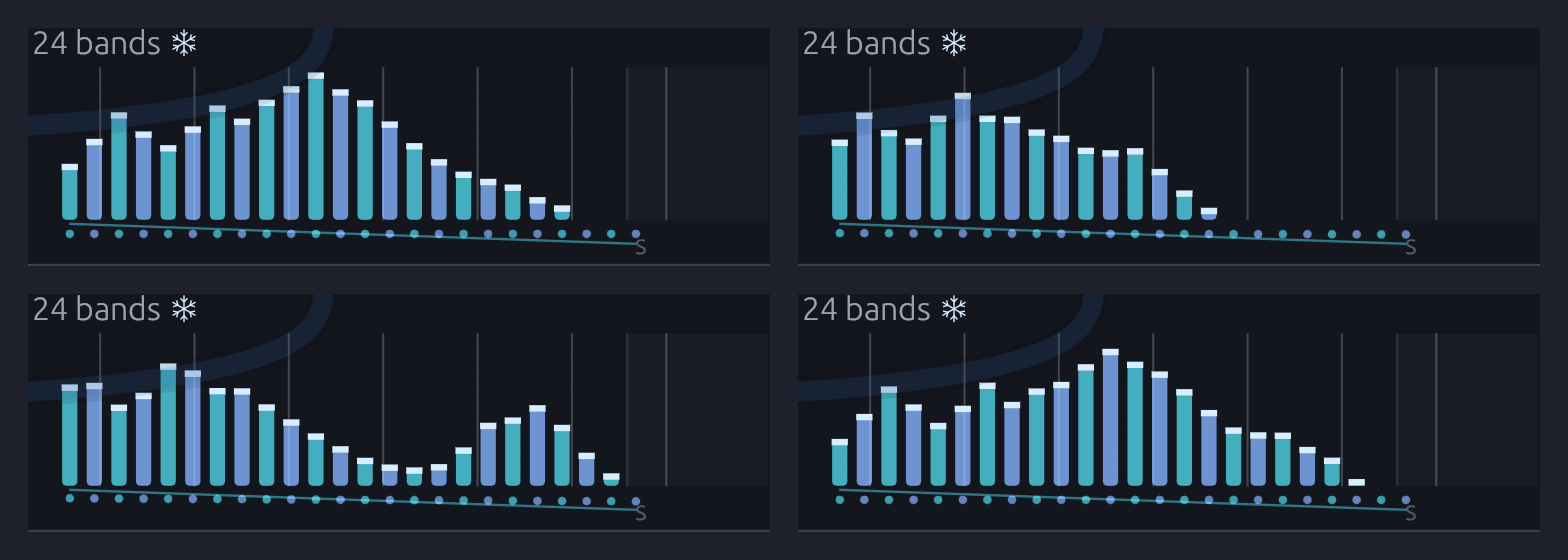
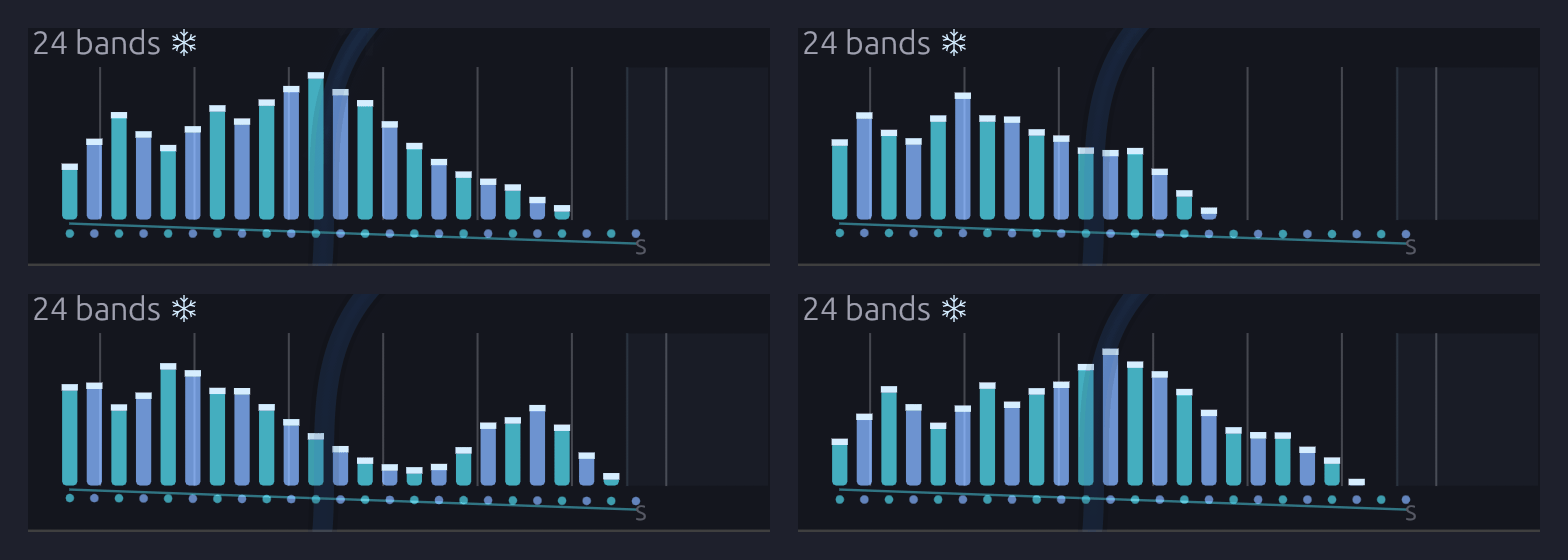
[Docs] recipe_images.py: script the Held Vowels face close-up too
- A CLOSEUPS table (image -> patch, module, moments, crop, zoom, columns):
  the face is aimed at from a probe layout, filmed once per moment so the
  face's clock-driven animations land the same way every time, cropped and
  set on a grid with 28 px gaps on #1e202c, then 256-colour median cut
- The camera maths shared with MOMENTS moves into aim()
- Re-shot recipe-held-vowels-faces.png: it was stale. Since 59bd60c moved
  the patch round the taller Sampler, the cable showing faintly through the
  Vocoder's display runs a different way. A second --check reads ok

Closes #178

diff --git a/tools/showcase/recipe_images.py b/tools/showcase/recipe_images.py
@@ -33,6 +33,11 @@ the scale the picture has always had, and the still is cropped to that
 frame (or the part of it that's wanted) without resizing. Playing three
 minutes of song frame by frame takes a few minutes.
 
+A few more are close-ups of one module's face, listed in CLOSEUPS: the
+example plays up to each moment wanted, with the view aimed at that face,
+the same part of the face is cropped from each still, and the crops are set
+on a grid.
+
 Build into target/capture first, as for shots.py. --check exits 1 if any
 image is stale or missing.
 """
@@ -82,6 +87,20 @@ MOMENTS = {
     "from-one-sine-line": Moment("from-one-sine", 14.5 * UNIT, "Motif, lead and memory", 1.75, (826, 568),
                                  [(407, 424)]),
 }
+
+# Close-ups of one face at several moments: `recipe-<image>.png` shows `crop`
+# (x0, y0, x1, y1 in patch points from the module's top-left) of the first
+# `module` (by id) in patches/<patch>.json, drawn at `zoom` and `PPP`, as it
+# was each of `at` seconds after the patch started playing. The crops are
+# set `columns` across, GAP pixels apart and from the edge, on BACKGROUND
+Closeup = namedtuple("Closeup", "patch module at crop zoom columns")
+CLOSEUPS = {
+    # The Vocoder's bands frozen on each of the four sung vowels: ohh, ooh,
+    # ee and ahh, each held from one downbeat to the next
+    "held-vowels-faces": Closeup("held-vowels", "fx.vocoder", (5.6, 9.3, 13.0, 16.6), (18, 202, 203.5, 261.5), 2.0, 2),
+}
+GAP = 28
+BACKGROUND = "#1e202c"
 
 # How far apart two pictures may be before one is stale: a pixel counts as
 # changed past this much in any channel, and a picture as stale past this
@@ -149,6 +168,18 @@ def shoot(name, tmp):
     return image.quantize(256, method=Image.Quantize.MEDIANCUT, dither=Image.Dither.NONE)
 
 
+def aim(view, point, zoom):
+    """The camera cue that puts patch point `point` at the editor's centre at
+    `zoom`, from the view as it opened, and where the patch's origin will
+    then be drawn, in screen points."""
+    # The camera scales the view about the editor's centre, then shifts it
+    centre = [(view["editor"][i] + view["editor"][i + 2]) / 2 for i in range(2)]
+    scale = zoom / view["zoom"]
+    origin = [centre[i] - point[i] * zoom for i in range(2)]
+    offset = [origin[i] - centre[i] - (view["origin"][i] - centre[i]) * scale for i in range(2)]
+    return f"camera {offset[0]:.2f} {offset[1]:.2f} {scale:.5f} 0.05", origin
+
+
 def moment_rect(lay, name):
     """The part of a moment's frame its picture shows, in patch points."""
     moment = MOMENTS[name]
@@ -174,15 +205,8 @@ def shoot_moment(name, tmp):
     out.mkdir()
     lay = film(patch, out, size, 1.0, "0.0 layout shot\n0.1 end\n")
     x0, y0, x1, y1 = moment_rect(lay, name)
-    view = lay["view"]
-    # The camera scales the view about the editor's centre, then shifts it:
-    # this puts the frame's centre there, at the moment's zoom
-    centre = [(view["editor"][i] + view["editor"][i + 2]) / 2 for i in range(2)]
-    scale = moment.zoom / view["zoom"]
-    aim = [(x0 + x1) / 2, (y0 + y1) / 2]
-    origin = [centre[i] - aim[i] * moment.zoom for i in range(2)]
-    offset = [origin[i] - centre[i] - (view["origin"][i] - centre[i]) * scale for i in range(2)]
-    cues = [f"-{moment.at:.4f} play", f"-{moment.at:.4f} camera {offset[0]:.2f} {offset[1]:.2f} {scale:.5f} 0.05"]
+    camera, origin = aim(lay["view"], ((x0 + x1) / 2, (y0 + y1) / 2), moment.zoom)
+    cues = [f"-{moment.at:.4f} play", f"-{moment.at:.4f} {camera}"]
     for i, (cx, cy) in enumerate(moment.clicks):
         t = -1.5 + 0.3 * i
         x, y = origin[0] + (x0 + cx) * moment.zoom, origin[1] + (y0 + cy) * moment.zoom
@@ -201,6 +225,49 @@ def shoot_moment(name, tmp):
     return image.quantize(256, method=Image.Quantize.MEDIANCUT, dither=Image.Dither.NONE)
 
 
+def closeup_rect(lay, name):
+    """The part of a close-up's face its picture shows, in patch points."""
+    closeup = CLOSEUPS[name]
+    rect = next((m["rect"] for m in lay["modules"] if m["module_id"] == closeup.module), None)
+    if rect is None:
+        raise RuntimeError(f"{name}: no {closeup.module} in {closeup.patch}")
+    x0, y0, x1, y1 = closeup.crop
+    return rect[0] + x0, rect[1] + y0, rect[0] + x1, rect[1] + y1
+
+
+def shoot_closeup(name, tmp):
+    """Films a face at each of its moments and returns them on a grid."""
+    closeup = CLOSEUPS[name]
+    patch = ROOT / "patches" / f"{closeup.patch}.json"
+    out = Path(tmp) / f"{name}-probe"
+    out.mkdir()
+    lay = film(patch, out, SIZE, PPP, "0.0 layout shot\n0.1 end\n")
+    x0, y0, x1, y1 = closeup_rect(lay, name)
+    camera, _ = aim(lay["view"], ((x0 + x1) / 2, (y0 + y1) / 2), closeup.zoom)
+    rows = -(-len(closeup.at) // closeup.columns)
+    sheet = None
+    # A take for each moment, rather than one take with a still at each: the
+    # face's animations (the snowflake, the falling peaks) run on the app's
+    # clock, which starts with the warmup, so only this way is each still
+    # taken at the same clock every time
+    for i, at in enumerate(closeup.at):
+        out = Path(tmp) / f"{name}-{i}"
+        out.mkdir()
+        lay = film(patch, out, SIZE, PPP, f"-{at:.2f} play\n-{at:.2f} {camera}\n0.0 layout shot\n0.0 still shot\n0.1 end\n")
+        x0, y0, x1, y1 = closeup_rect(lay, name)
+        view = lay["view"]
+        zoom, ppp, (ox, oy) = view["zoom"], view["ppp"], view["origin"]
+        # Every crop the same size, however the face falls on the pixels
+        left, top = round((ox + x0 * zoom) * ppp), round((oy + y0 * zoom) * ppp)
+        w, h = round((x1 - x0) * zoom * ppp), round((y1 - y0) * zoom * ppp)
+        if sheet is None:
+            sheet = Image.new("RGB", (GAP + closeup.columns * (w + GAP), GAP + rows * (h + GAP)), BACKGROUND)
+        still = Image.open(out / "shot.ppm").convert("RGB")
+        row, column = divmod(i, closeup.columns)
+        sheet.paste(still.crop((left, top, left + w, top + h)), (GAP + column * (w + GAP), GAP + row * (h + GAP)))
+    return sheet.quantize(256, method=Image.Quantize.MEDIANCUT, dither=Image.Dither.NONE)
+
+
 def changed(new, path):
     """The fraction of pixels that differ from the picture at `path`, or 1
     if it's missing or a different size."""
@@ -217,12 +284,17 @@ def changed(new, path):
 def main(args):
     check = "--check" in args
     names = [a for a in args if not a.startswith("--")]
-    names = names or sorted(p.stem for p in (ROOT / "patches").glob("*.json") if (IMAGES / f"recipe-{p.stem}.png").exists()) + list(MOMENTS)
+    names = names or sorted(p.stem for p in (ROOT / "patches").glob("*.json") if (IMAGES / f"recipe-{p.stem}.png").exists()) + list(MOMENTS) + list(CLOSEUPS)
     stale = []
     with tempfile.TemporaryDirectory() as tmp:
         for name in names:
             path = IMAGES / f"recipe-{name}.png"
-            image = shoot_moment(name, tmp) if name in MOMENTS else shoot(name, tmp)
+            if name in MOMENTS:
+                image = shoot_moment(name, tmp)
+            elif name in CLOSEUPS:
+                image = shoot_closeup(name, tmp)
+            else:
+                image = shoot(name, tmp)
             if check:
                 fraction = changed(image, path)
                 verdict = "ok" if fraction <= STALE_FRACTION else ("missing" if not path.exists() else f"stale ({fraction:.1%} changed)")
